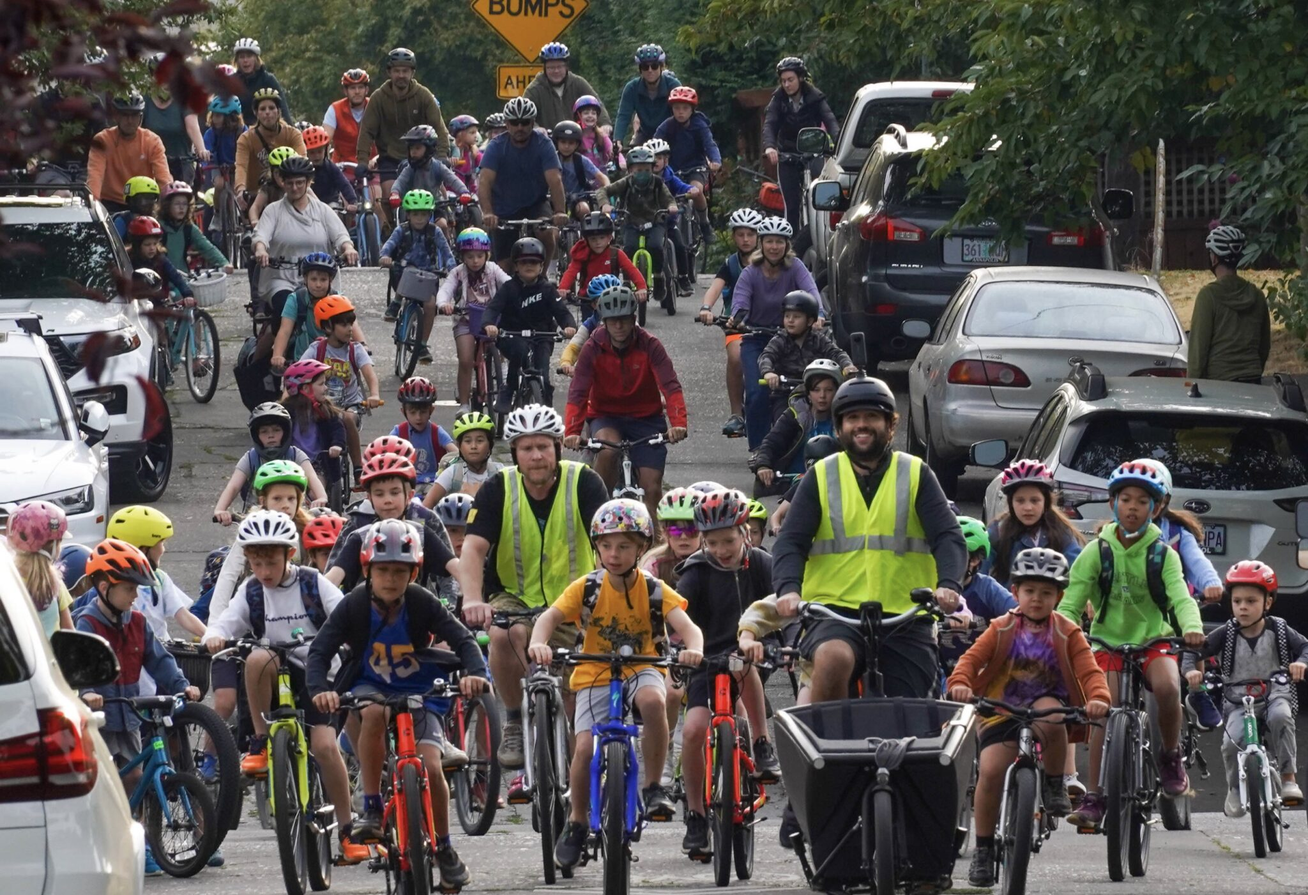
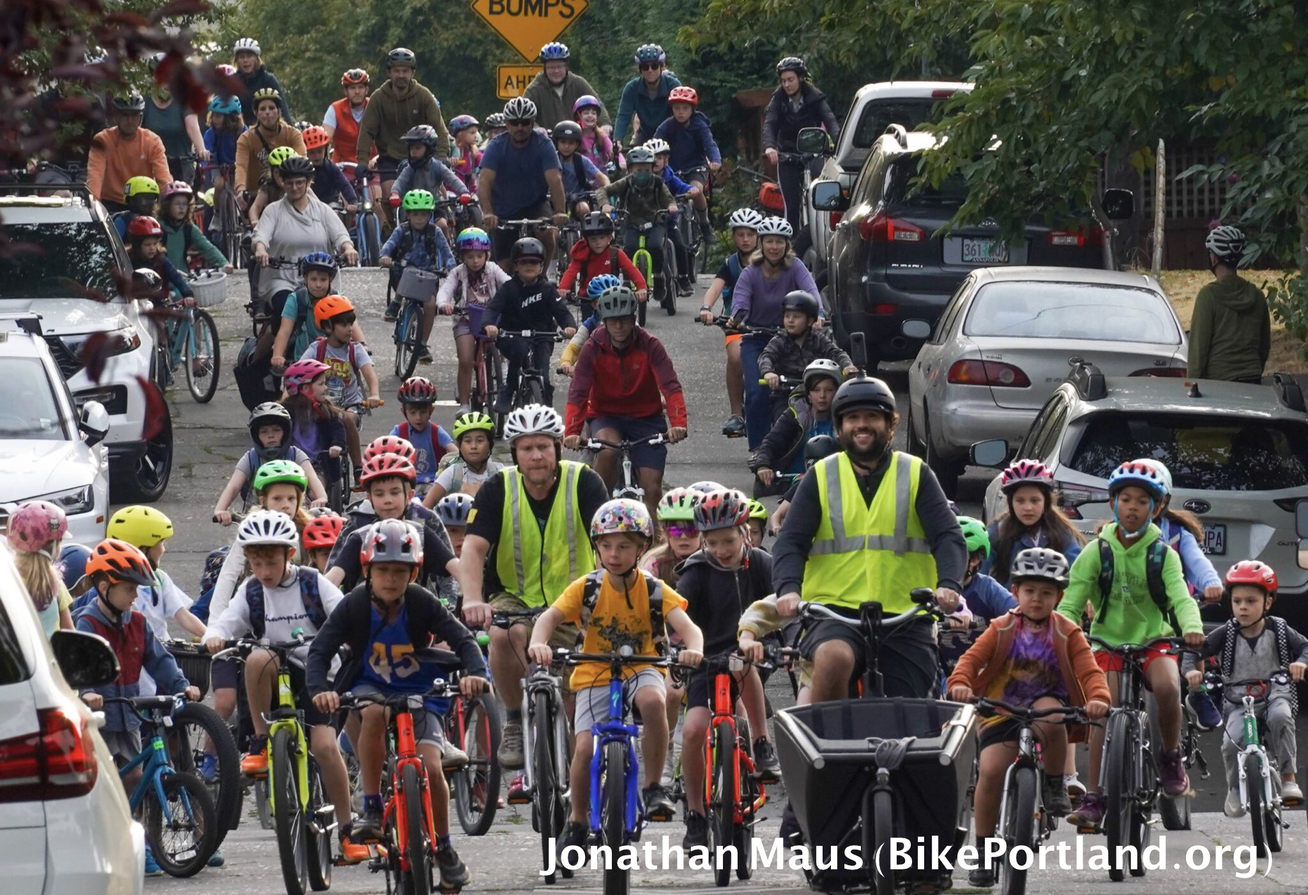
Update image, add EC

Changed region(s): [[0.4062, 0.9208, 0.9688, 0.9822]]

diff --git a/index.html b/index.html
@@ -330,6 +330,13 @@
                 <br>
                 Abernethy Bike Bus
               </div>
+
+              <div class="signature">
+                Neil Bansguard
+                <br>
+                The Environmental Center
+              </div>
+
             </div>
 
             <div class="column">
